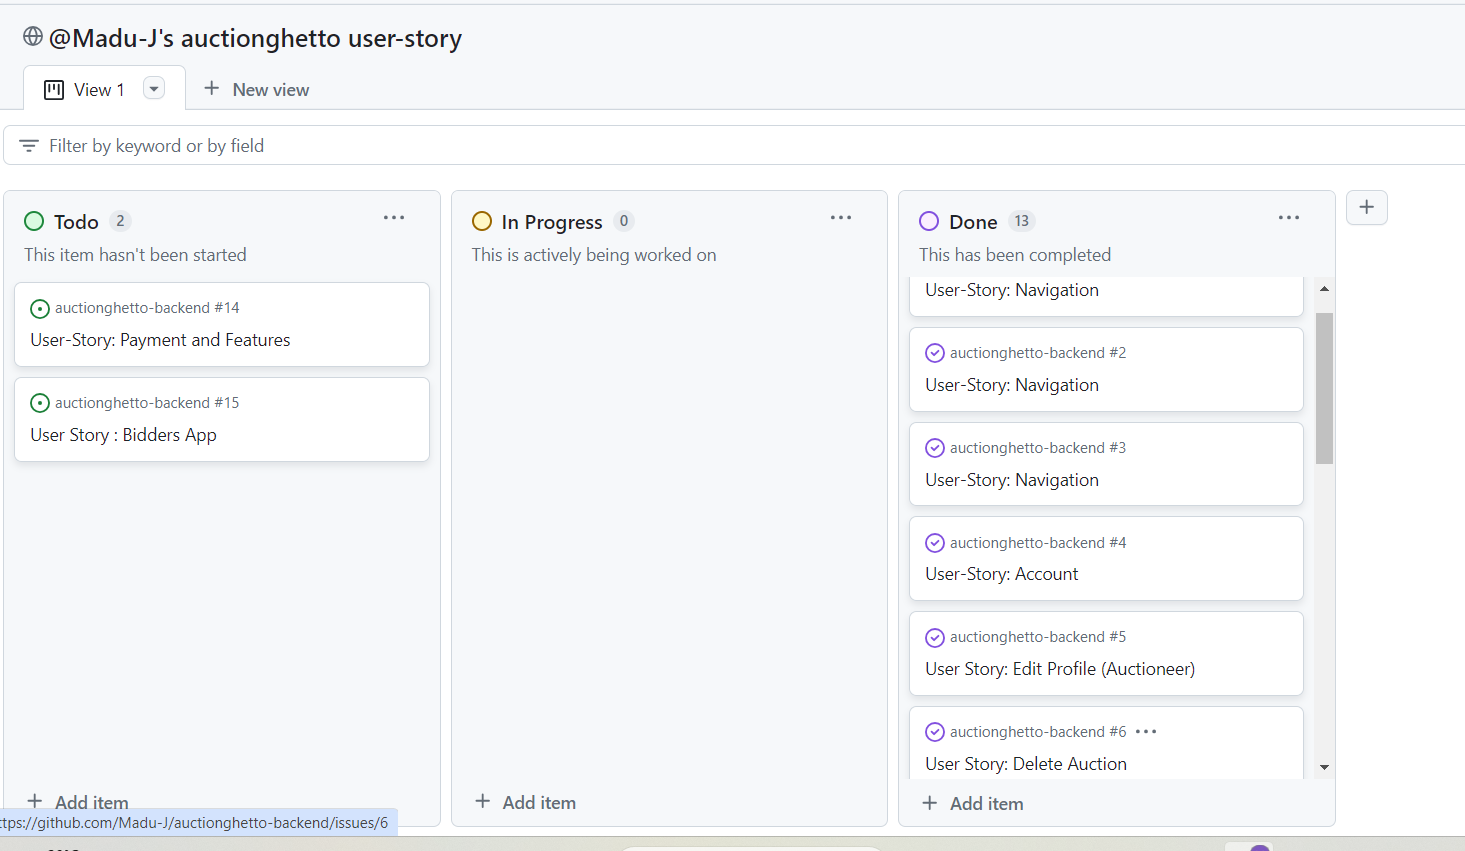
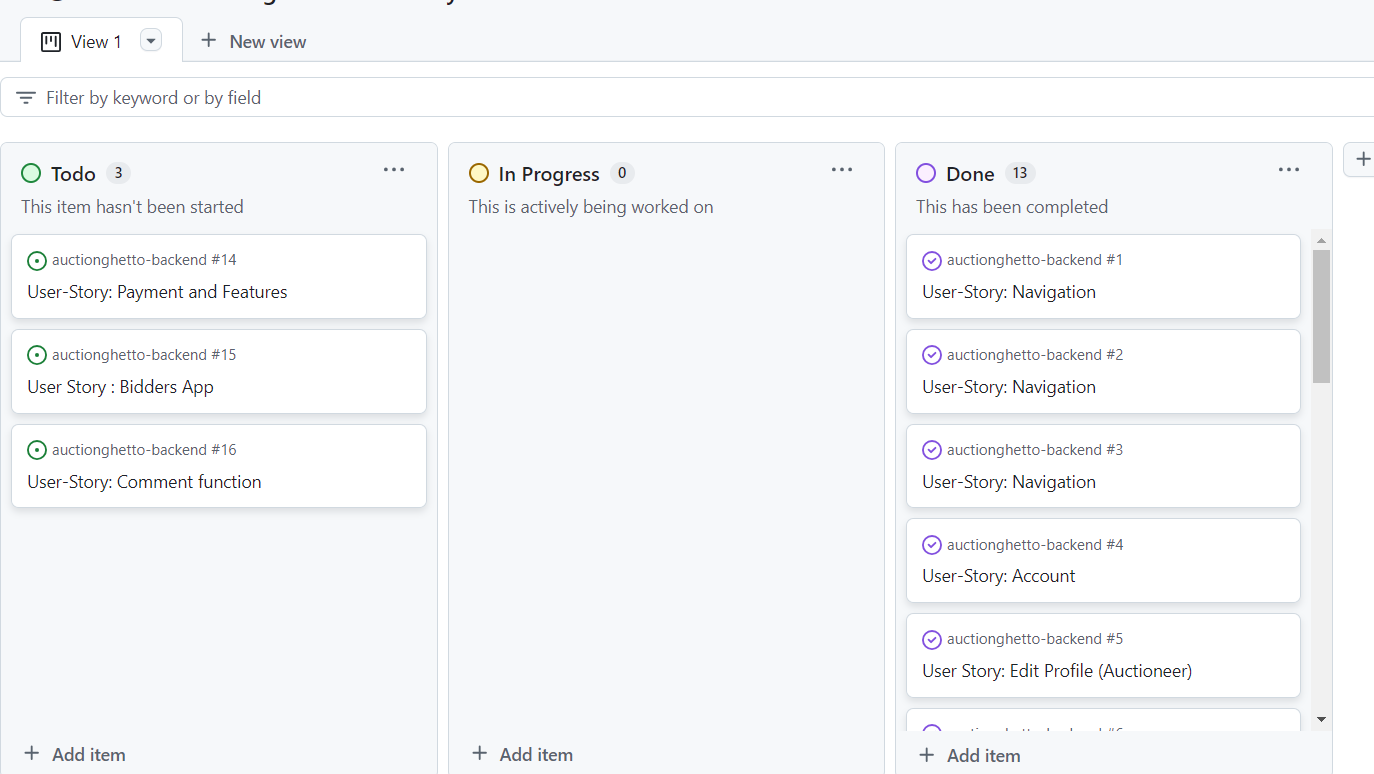
Updated README.md documentation

diff --git a/README.md b/README.md
@@ -18,8 +18,9 @@
    - [Bookmarks app](#bookmarks-app)
    - [Followers app](#followers-app)
  + [Future Features](#future-features)
-   - [payment feature](#payment-feature)
+   - [Payment feature](#payment-feature)
    - [Bidders app](#bidders-app)
+   - [Comment app](#comment-app)
  - [Testing](#testing)
       - [Bugs](#bugs)
       - [Fixed Bugs](#fixed-bugs)
@@ -39,13 +40,13 @@
 
 # User Experience (UX)
 
-  Welcome to Auctionghetto server ! In Auctionghetto platform we priotize our customer's interest. Auctionghetto is built on a powerful toolkit using Django REST framework. This Auctionghetto backend is smoothly interacts with the frontend side of the application Programming Interfaces, when the API sends a request to the server, then the server sends a response back to the clients.
+  - Welcome to Auctionghetto server ! Auctionghetto is an auction platform where potential user sample and sale their products. Our aim is to provide a community friendly platform for both buyers and salers looking to buy or sell their items. We will continue to build the platform to make it more interactive for users.
   
-  The mode of communication between these two APIs, the backend and the frontend which are tools responsible for connecting software or systems, enabling them to interact with each other simultaneously.
+  - In Auctionghetto platform we priotize our customer's interest. Auctionghetto is built on a powerful toolkit using Django REST framework. This Auctionghetto backend is smoothly interacting with the frontend side of the application Programming Interfaces, when the API sends a request to the server, then the server sends a response back to the clients.
+  
+  -The mode of communication between these two APIs, the backend and the frontend which are tools responsible for connecting software or systems, enabling them to interact with each other simultaneously.
 
-  Following features are available in this site : Auction, Feeds, Bookmarks and Followers app's. In Auctionghetto we intend to offer a super user friendly interface that allows sellers to effortlessly create captivating listings. Our intuitive posting system ensures that sellers can showcase their auctions with compelling descriptions and high-quality images.
-
- - Auctionghetto is an auction platform where potential user sample and sale their products. Our aim is to provide a community friendly platform for both buyers and salers looking to buy or sell their items. We will continue to build the platform to make it more interactive for users.
+  -Following features are available in this site: Auction, Feeds, Bookmarks and Followers app's. In Auctionghetto we intend to offer a super user friendly interface that allows sellers to effortlessly create captivating listings. Our intuitive posting system ensures that sellers can showcase their auctions with compelling descriptions and high-quality images.
 
 <br>
 
@@ -58,26 +59,22 @@
 #### Follow this link below to view the Frontend repository of this project :
 - [Auctionghetto Frontend](https://github.com/Madu-J/auctionghetto-frontend/blob/main/README.md)
 
-# User Stories 
+# User Stories
 
- * USER-STORY: Navigation
- - As a user, I want to access the navbar on every page, so that I can easily navigate through every section of the website I 
-  intend to visit.
-  
- - As a user, I want to scroll without pagination so that I can view more items on the site and have a seamless browsing experience.
- 
- - As a user, I want to be able to search keywords in the search bar so that I can easily access specific items that I am looking for on Auctionghetto website.
- 
- * USER-STORY: Account
- - As an Admin, I want to be able to click on a profile (auctioneer) and find more information about the auctioneer on Auctionghetto website, so that I can be able to assess the detail and make informed decision.
+- Below applications were fully implemented within the development of this project, as well as the features yet to be implemented are also readily viewable in Kanban board within Github repository for complete user-story. 
 
- - As a User, I want to be able to edit my profile (Auctioneer) on Auctionghetto, so that I can update or change information.
+- Auction and Feeds app: Again the aim of combining these API's is for the costumers or user to enjoy the robust performance and uninterruptible usage of our website which this backend serves as an assistance to providing free flow pages and feeds of the frontend as these two API's reduces burden to each other. 
+- Account and profile (Auctioneer): A site visitor can effortlessly create an account to be able to view information about a particular auctioneer on Auctionghetto website, in order to make a secure trade.
 
- * To view more User Story, the user stories are available in the GitHub repository.
+- Authentication and Bookmark feature: Site visitor can register an account to be able to bookmark their favorite auction items on Auctionghetto site.
+- User Authentication and Security: User can set the refresh an access tokens on Auctionghetto site, to reduce constant logged out.
+- Update auction listings: Allows Auctionghetto users to update their listed items, user can edit delete or update auction information on their page. 
 
  - ![User-Story](static/user_st.png)
 
- #### To see Auctionghetto Github User Stories - Click [User-Stories](https://github.com/users/Madu-J/projects/14/views/1)
+ * User stories are available in kanban GitHub repository.
+
+ #### To see Auctionghetto User Stories - Click [User-Stories](https://github.com/users/Madu-J/projects/14/views/1)
 
 
  ## Agile methodology
@@ -169,10 +166,12 @@
 
 # Future Features
 
- * Payment System: Adding payment feature that will allow users make payment online in a situation where a potential buyer would prefer to pay online via Auctionghetto website.
+ - Payment System: Adding payment feature that will allow users make payment online in a situation where a potential buyer would prefer to pay online via Auctionghetto website.
  
- * Future feature will include bidders app and serializer, this will help enhance user experience, so that auctionghetto user or auctioneer can view the highest bidder.
+ - Future feature will include bidders app and serializer, this will help enhance user experience, so that auctionghetto user or auctioneer can view the highest bidder.
 
+ - Comment app: Creating an interactive section where users can interact with each other and share their views on about auction listings.
+  
 <br>
 
 # Testing
@@ -181,23 +180,26 @@
  * Code underwent validator checks using CI Python Linter - [Link](https://pep8ci.herokuapp.com/).
 
 ## Bugs
-
- * Bugs fixed
  - Image - had issues with images path and config.
  - Bookmarkserializer - a typo error caused malfunction.
  - In settings.py identation error fixed.
+ - I noticed that Auction create image has stopped loading and display along with auction details.
+
+## Fixed Bugs
+ - Image: Had issues with images path and config.
+ - Bookmarkserializer: A typo error caused malfunction.
+ - In settings.py identation error fixed.
+ - I noticed that Auction create image has stopped loading and display along with auction detail.
 
  - ![settings.py_testing](static/settings.pyt.png)
 
  - ![Bookmarkserializer_validation](static/serialzertest.png)
 
  - ![settings.py_validation](static/settings.pyv.png)
-
+ 
  ## Remaining Bugs
 
-## To fixed:
-
- I noticed that Auction create image has stopped loading and display along with auction detail.
+ - No new bug identified
 
 <br>
 
